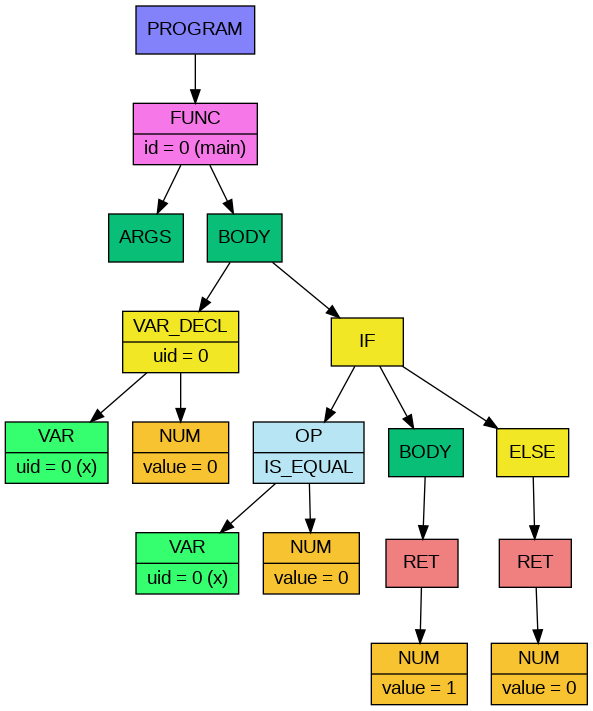
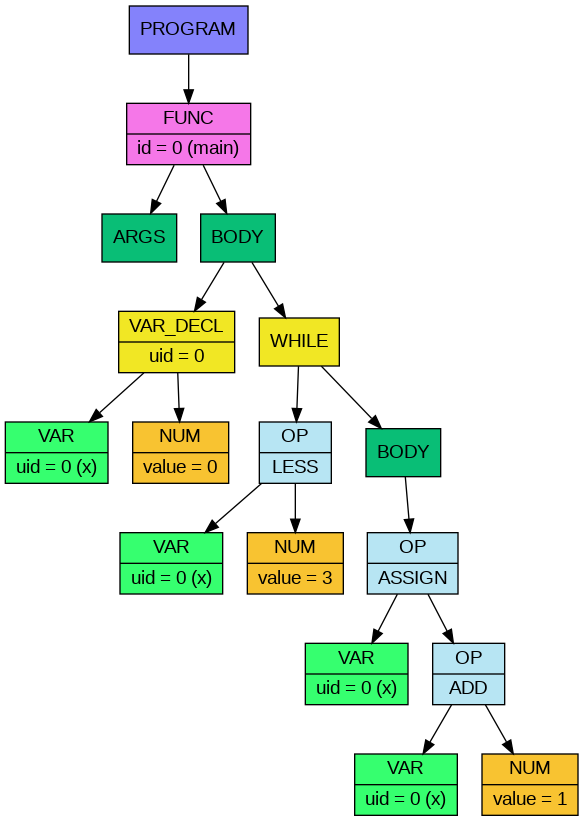
Add while to back_end

diff --git a/back_end/source/back_end_run.c b/back_end/source/back_end_run.c
@@ -19,6 +19,7 @@ static size_t const_counter = 0;
 static size_t local_vars_counter = 0;
 static size_t cmp_counter = 0;
 static size_t if_counter = 0;
+static size_t while_counter = 0;
 
 static char text_buffer[10000] = "";
 static size_t text_pos = 0;
@@ -122,14 +123,14 @@ void gen_op(node_t* op_node, const identifier_t* const identifiers)
 
             gen_expr(op_node->children[0]);
             printf_to_text_buffer("\tucomisd xmm0, [rel const_false]\n"
-                                  "\tje if_end_%zu\n\n", if_id);
+                                  "\tje .if_end_%zu\n\n", if_id);
 
             gen_block(op_node->children[1], identifiers);
 
             if (op_node->child_count >= 3)
-                printf_to_text_buffer("\tjmp if_else_end_%zu\n\n", if_id);
+                printf_to_text_buffer("\tjmp .if_else_end_%zu\n\n", if_id);
 
-            printf_to_text_buffer("if_end_%zu:\n", if_id);
+            printf_to_text_buffer(".if_end_%zu:\n", if_id);
 
             if (op_node->child_count >= 3)
             {
@@ -137,10 +138,30 @@ void gen_op(node_t* op_node, const identifier_t* const identifiers)
 
                 gen_block(op_node->children[2], identifiers);
 
-                printf_to_text_buffer("if_else_end_%zu:\n\n", if_id);
+                printf_to_text_buffer(".if_else_end_%zu:\n\n", if_id);
             }
         }
             break;
+
+        case NODE_WHILE:
+        {
+            size_t while_id = while_counter++;
+            printf_to_text_buffer(";========== WHILE_%zu ==========\n", while_id); 
+
+            gen_expr(op_node->children[0]);
+            printf_to_text_buffer("\tucomisd xmm0, [rel const_false]\n"
+                                  "\tje .while_end_%zu\n\n", while_id);
+
+            printf_to_text_buffer(".while_loop_%zu:\n", while_id);
+            gen_block(op_node->children[1], identifiers);
+
+            gen_expr(op_node->children[0]);
+            printf_to_text_buffer("\tucomisd xmm0, [rel const_false]\n"
+                                  "\tjne .while_loop_%zu\n\n", while_id);
+
+            printf_to_text_buffer(".while_end_%zu:\n\n", while_id);
+            break;
+        }
 
         case NODE_OP:
             op_node_to_asm(op_node);
@@ -229,10 +250,10 @@ void op_node_to_asm(node_t* expr_node)
             printf_to_text_buffer("\tucomisd xmm0, xmm1\n"
                                   "\t%s .cmp_true_%zu\n\n"
                                   "\tmovsd xmm0, [rel const_false]\n"
-                                  "\tjmp cmp_end_%zu\n\n"
-                                  "cmp_true_%zu:\n"
+                                  "\tjmp .cmp_end_%zu\n\n"
+                                  ".cmp_true_%zu:\n"
                                   "\tmovsd xmm0, [rel const_true]\n\n"
-                                  "cmp_end_%zu:",
+                                  ".cmp_end_%zu:",
                                   jump_word, cmp_id, cmp_id, cmp_id, cmp_id);
         }
 
